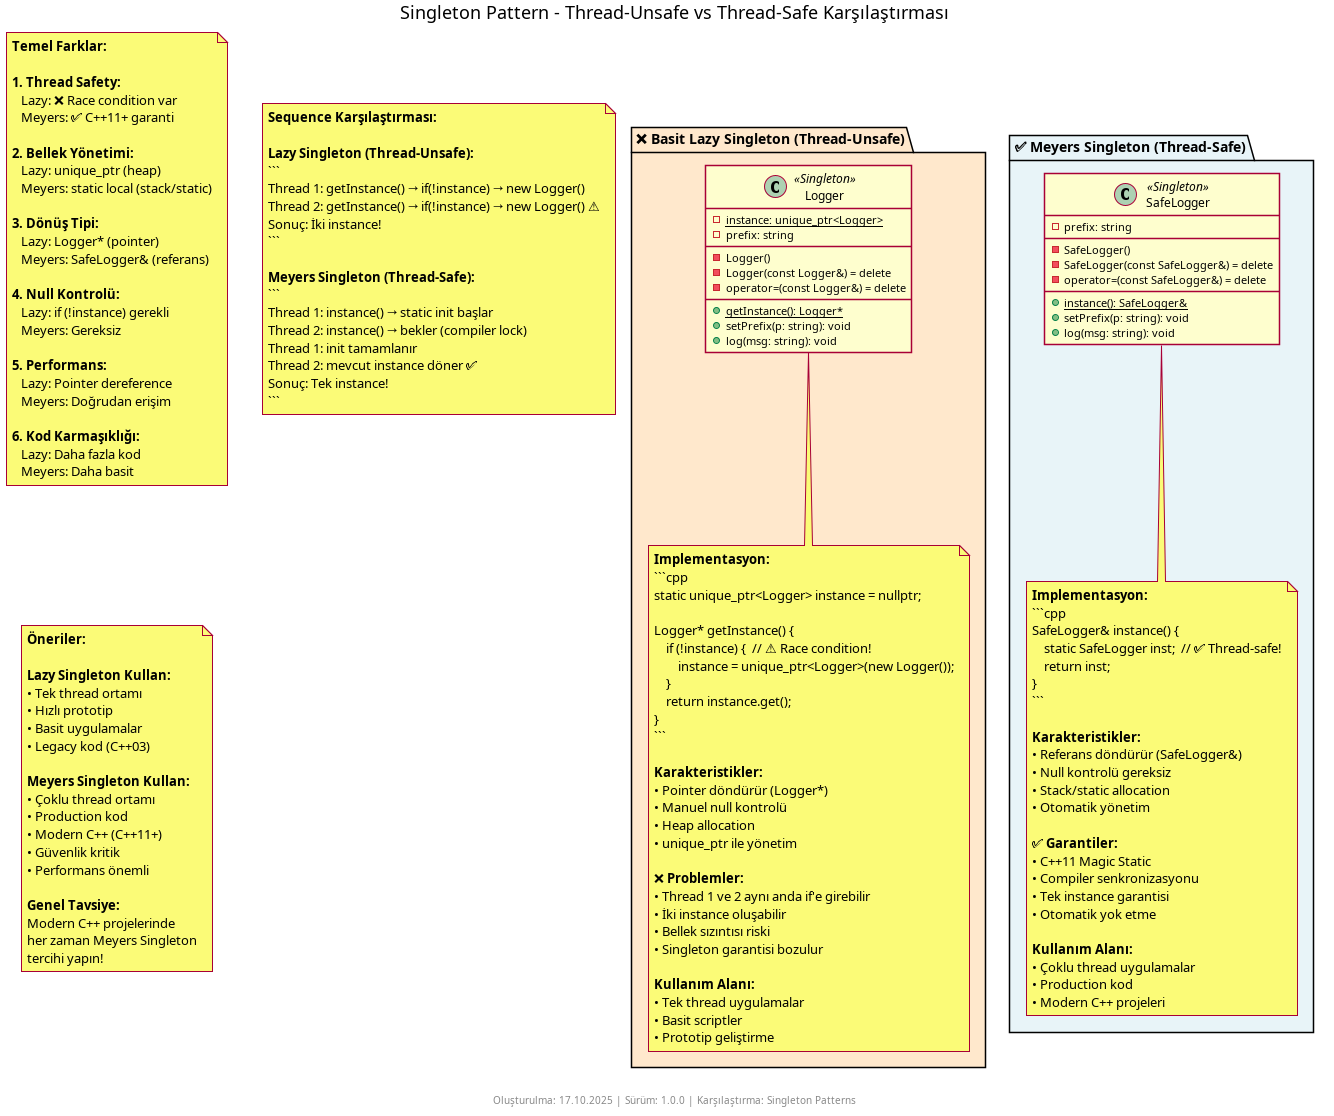
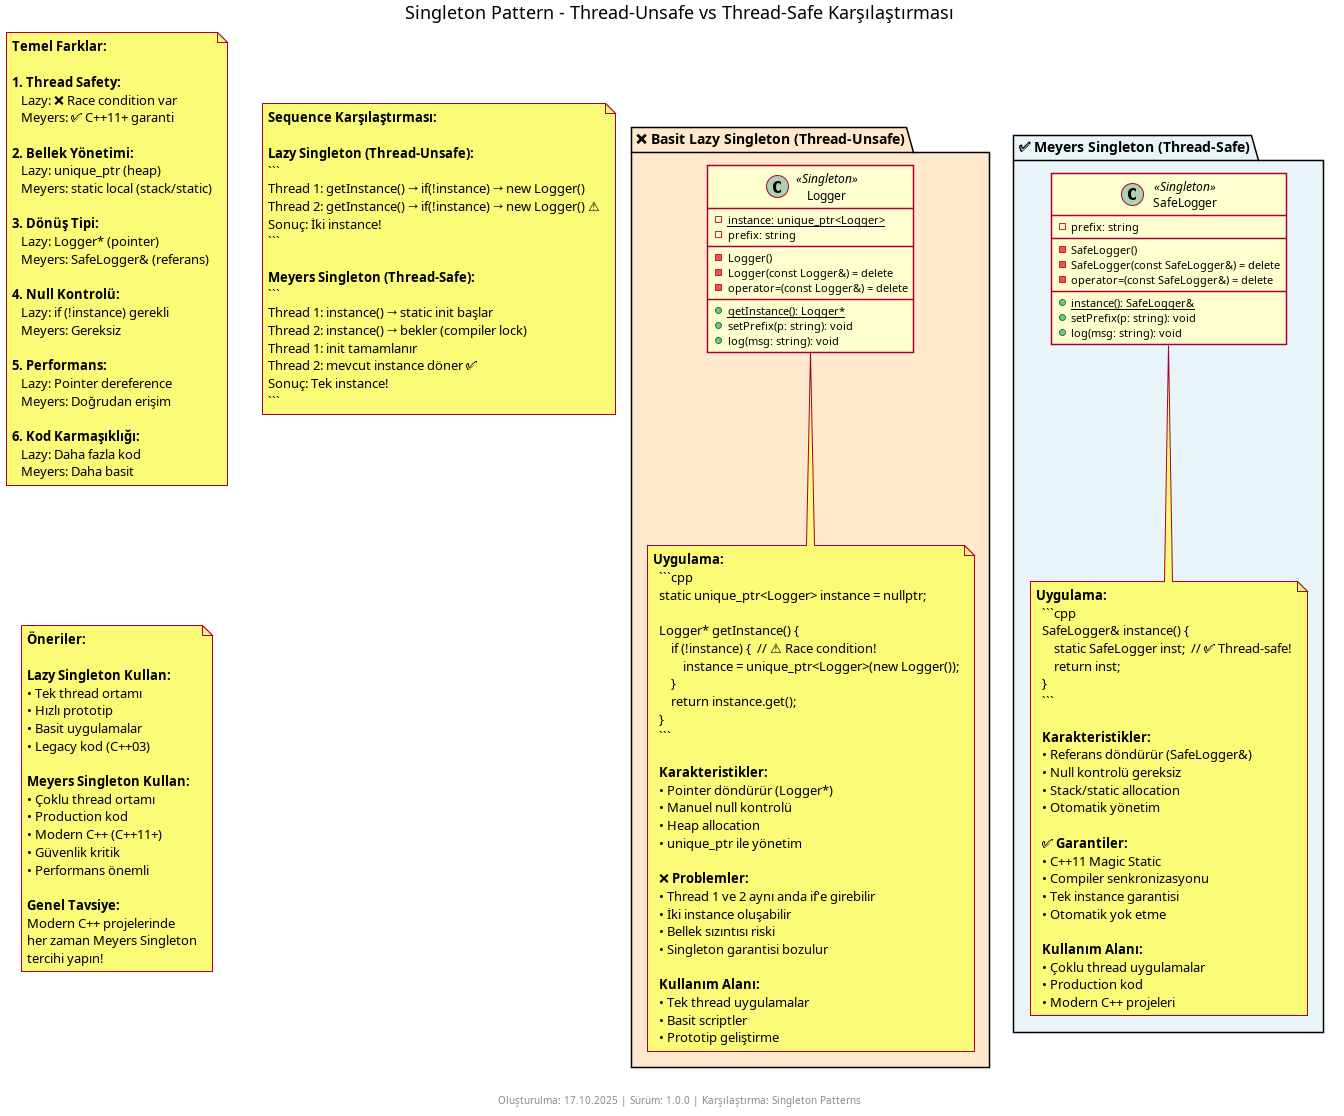
Dökümanlarda "implementasyon" kelimesi "uygulama" olarak güncellendi ve sınıf patlaması gibi anlaması zor kısımlar anlaşılır hale getirildi

diff --git a/structural/bridge/README.md b/structural/bridge/README.md
@@ -1,10 +1,10 @@
 # Bridge Pattern Nedir?
 
-**Bridge Pattern**, bir soyutlamayı (abstraction) gerçekleme/uygulama (implementation) hiyerarşisinden ayırarak ikisinin de birbirinden bağımsız evrilmesini sağlar. Böylece iki (veya daha fazla) boyutta büyüyen sınıf kombinasyonlarında sınıf patlaması (Cartesian ürün) yaşamadan tasarım yapılır.
+**Bridge Pattern**, bir soyutlamayı (abstraction) uygulama/gerçekleme (implementation) hiyerarşisinden ayırarak ikisinin de birbirinden bağımsız evrilmesini sağlar. Böylece iki (veya daha fazla) boyutta büyüyen sınıf kombinasyonlarında aşırı sınıf karmaşıklığı (çok sayıda kombinasyon) yaşamadan tasarım yapılır.
 
 ## Hangi durumda Bridge aklımıza gelmeli?
 
-- Aynı kavramın iki ekseni bağımsızca değişiyorsa ve ikisini birden kalıtımla birleştirmek sınıf patlamasına yol açıyorsa. Örn: **Şekil türleri** (daire, kare) ve **renk** (kırmızı, mavi).
+- Aynı kavramın iki ekseni bağımsızca değişiyorsa ve ikisini birden kalıtımla birleştirmek aşırı sınıf karmaşıklığına yol açıyorsa. Örn: **Şekil türleri** (daire, kare) ve **renk** (kırmızı, mavi).
 - Soyut bir denetim katmanının (kumanda) farklı gerçeklemelerle (TV, Radyo) çalışması isteniyorsa ve ikisi de ayrı ayrı genişlemeye devam edecekse.
 - Bir arayüzün değişmesi muhtemel, fakat istemcinin kullandığı soyutlama sabit kalmalıysa.
 - Derin kalıtım hiyerarşileri yerine, **kompozisyon ile delege** ederek esnek kalmak istiyorsanız.
@@ -12,7 +12,7 @@
 ## Ne İşe Yarar?
 
 - **Soyutlama ile gerçekleştirmeyi ayırır** – Her iki hiyerarşi bağımsız genişler.
-- **Sınıf patlamasını önler** – İki eksenin ürününe göre sınıf üretmek yerine kompozisyon kullanır.
+- **Aşırı sınıf karmaşıklığını önler** – İki eksenin ürününe göre sınıf üretmek yerine kompozisyon kullanır.
 - **Bağımlılığı azaltır** – İstemci soyutlamaya konuşur, gerçekleştirme detayları gizlenir.
 - **Test edilebilirlik** – Implementor sahte (mock) ile değiştirilebilir.
 
@@ -56,6 +56,6 @@ Kompozisyon ile köprü kurulur: Abstraction, bir Implementor referansı tutar v
 ## Diğer Yapısal Kalıplarla Farkları
 
 - **Adapter:** Var olan, uyumsuz iki arayüzü sonradan bağlar. Bridge, iki hiyerarşiyi en baştan ayrıştırır ve birlikte evrimleşmelerine izin verir.
-- **Decorator:** Aynı arayüzü koruyarak nesneye yeni davranışlar ekler (katmanlama). Bridge arayüz dönüştürmez; soyutlama ile implementasyonu ayırır.
+- **Decorator:** Aynı arayüzü koruyarak nesneye yeni davranışlar ekler (katmanlama). Bridge arayüz dönüştürmez; soyutlama ile uygulamayı (implementation) ayırır.
 - **Facade:** Karmaşık alt sistemleri basitleştirir. Bridge ise iki eksenli hiyerarşileri ayırır.
 - **Composite:** Ağaç yapıları tekil nesne gibi ele alır. Bridge ise iki bağımsız hiyerarşiyi köprüler.

diff --git a/structural/decorator/README.md b/structural/decorator/README.md
@@ -1,6 +1,6 @@
 # Decorator Pattern Nedir?
 
-**Decorator Pattern**, mevcut bir nesneye çalışma zamanında yeni sorumluluklar/özellikler eklemeyi sağlayan bir **yapısal kalıptır (structural pattern)**. Miras almadan, aynı arayüzü koruyarak davranışı katmanlı şekilde genişletebilirsiniz. Böylece sınıf patlaması (farklı kombinasyonlar için çok fazla alt sınıf) engellenir ve Açık/Kapalı Prensibi (OCP) desteklenir. Bir nesnenin arayüzünü değiştirmeden, özelliklerini esnekçe ve aşamalı olarak genişletmek istediğinizde kullanılır.
+**Decorator Pattern**, mevcut bir nesneye çalışma zamanında yeni sorumluluklar/özellikler eklemeyi sağlayan bir **yapısal kalıptır (structural pattern)**. Miras almadan, aynı arayüzü koruyarak davranışı katmanlı şekilde genişletebilirsiniz. Böylece aşırı sınıf karmaşıklığı (farklı kombinasyonlar için çok fazla alt sınıf) engellenir ve Açık/Kapalı Prensibi (OCP) desteklenir. Bir nesnenin arayüzünü değiştirmeden, özelliklerini esnekçe ve aşamalı olarak genişletmek istediğinizde kullanılır.
 
 ## Ne İşe Yarar?
 
@@ -58,7 +58,7 @@ Karşılaştırma diyagramı, iki örneğin ortak noktalarını (aynı arayüz, 
 ## Ne Zaman Kullanılır?
 
 - **Seçmeli özellikler** çalışma zamanında eklenmek isteniyorsa
-- **Sınıf patlaması** (özellik kombinasyonları) tehlikesine karşı daha esnek bir yaklaşım gerekiyorsa
+- **Aşırı sınıf karmaşıklığı** (özellik kombinasyonları) tehlikesine karşı daha esnek bir yaklaşım gerekiyorsa
 - **Kalıtımdan kaçınmak** ve **bileşimi tercih etmek** istiyorsanız
 - **Aynı arayüzü koruyarak** davranışı genişletmek istiyorsanız
 

diff --git a/structural/adapter/README.md b/structural/adapter/README.md
@@ -73,4 +73,4 @@ Bu yapı sayesinde istemci kodu değişmeden yeni servisler veya cihazlar entegr
 
 - **Facade:** Facade karmaşık alt sistemleri basitleştirir; adapter ise uyumsuz arayüzleri dönüştürür. Adapter uyumluluk, facade kullanım kolaylığı sağlar.
 - **Decorator:** Decorator mevcut nesneye yeni davranış ekler fakat aynı arayüzü korur. Adapter arayüz değiştirir, davranış eklemez.
-- **Bridge:** Bridge soyutlama ile implementasyonu ayırır ve birlikte evrimleşmelerine yardım eder. Adapter, halihazırda var olan iki arayüzü sonradan bağlamak için kullanılır.
+- **Bridge:** Bridge soyutlama ile uygulamayı (implementation) ayırır ve birlikte evrimleşmelerine yardım eder. Adapter, halihazırda var olan iki arayüzü sonradan bağlamak için kullanılır.
